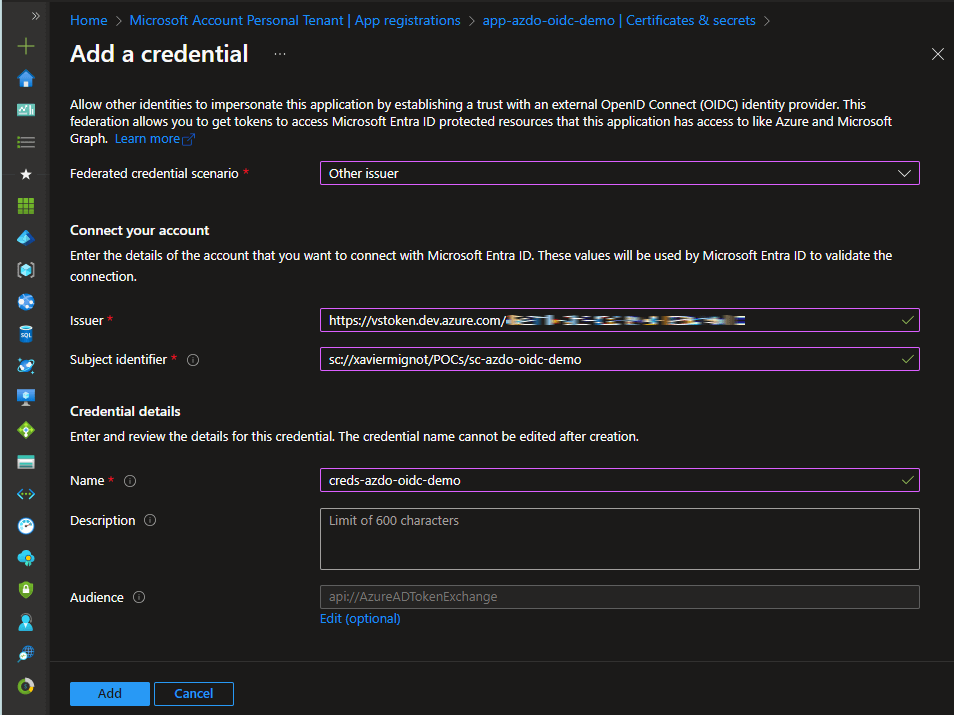
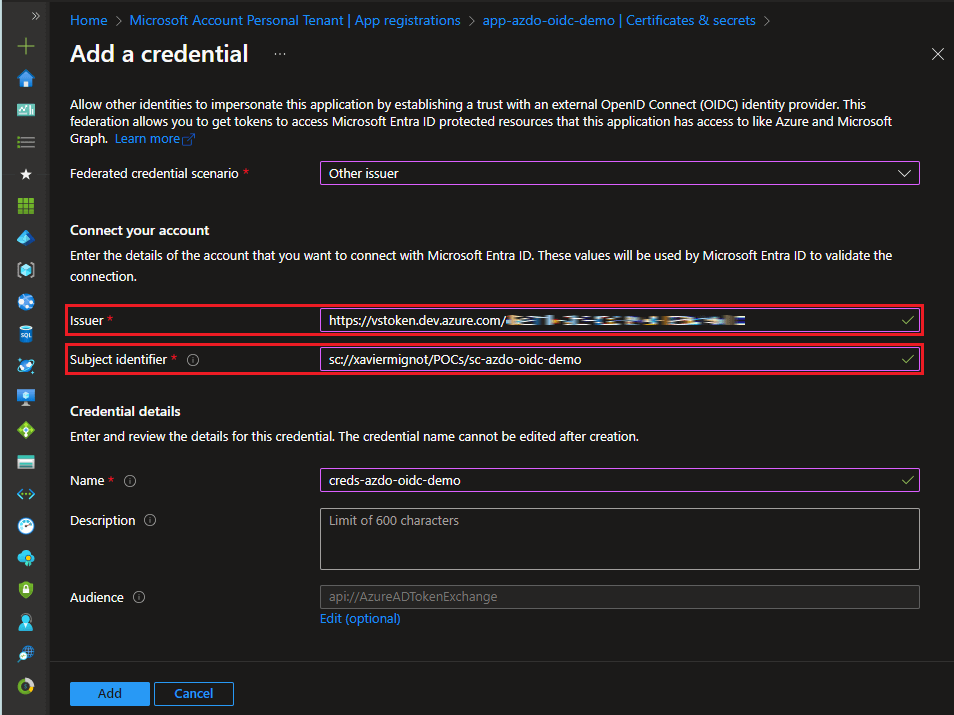
feat: Update portal image

Changed region(s): [[0.0608, 0.4, 0.9727, 0.5231]]

diff --git a/_drafts/azure-devops-terraform-oidc.md b/_drafts/azure-devops-terraform-oidc.md
@@ -23,7 +23,7 @@ Then in Azure DevOps, in _Organization settings_, you can add the _service princ
 Now that the service principal has access to a project in Azure DevOps, we need to _federate_ its identity with Azure Pipelines runners. From your project settings in Azure DevOps, create a new service connection, select _Workload Identity federation (manual)_, give it a name, and clic _Next_:  
 ![Issuer and subject identifier in Azure DevOps](/azdo-sc-issuer.png){: width="350"}
 
-Here you can retrieve the _issuer_ and the _subject identifier_ that you need to set on the service principal. Go back to your app registration in the Azure portal, click on _Certificates & secrets_, _Federated credentials_, _Add credential_, and select the _Other issuer_ scenario. Then you can report the _issuer_ and _subject identifier_ values from Azure DevOps, and give a name to the credential:
+Here you can retrieve the _issuer_ and the _subject identifier_ that you need to set on the service principal. Go back to your app registration in the Azure portal, click on _Certificates & secrets_, _Federated credentials_, _Add credential_, and select the _Other issuer_ scenario. Then you can report the _issuer_ and _subject identifier_ values from Azure DevOps, give a name to the credential, and click on _Add_:
 ![Issuer and subject identifier in Azure portal](/portal-issuer.png){: width="600"}
 
 Back in the service connection creation in Azure DevOps, you have probably noticed that it's saved as a draft, so we need to finalize the set-up. We need to provide the following data:
